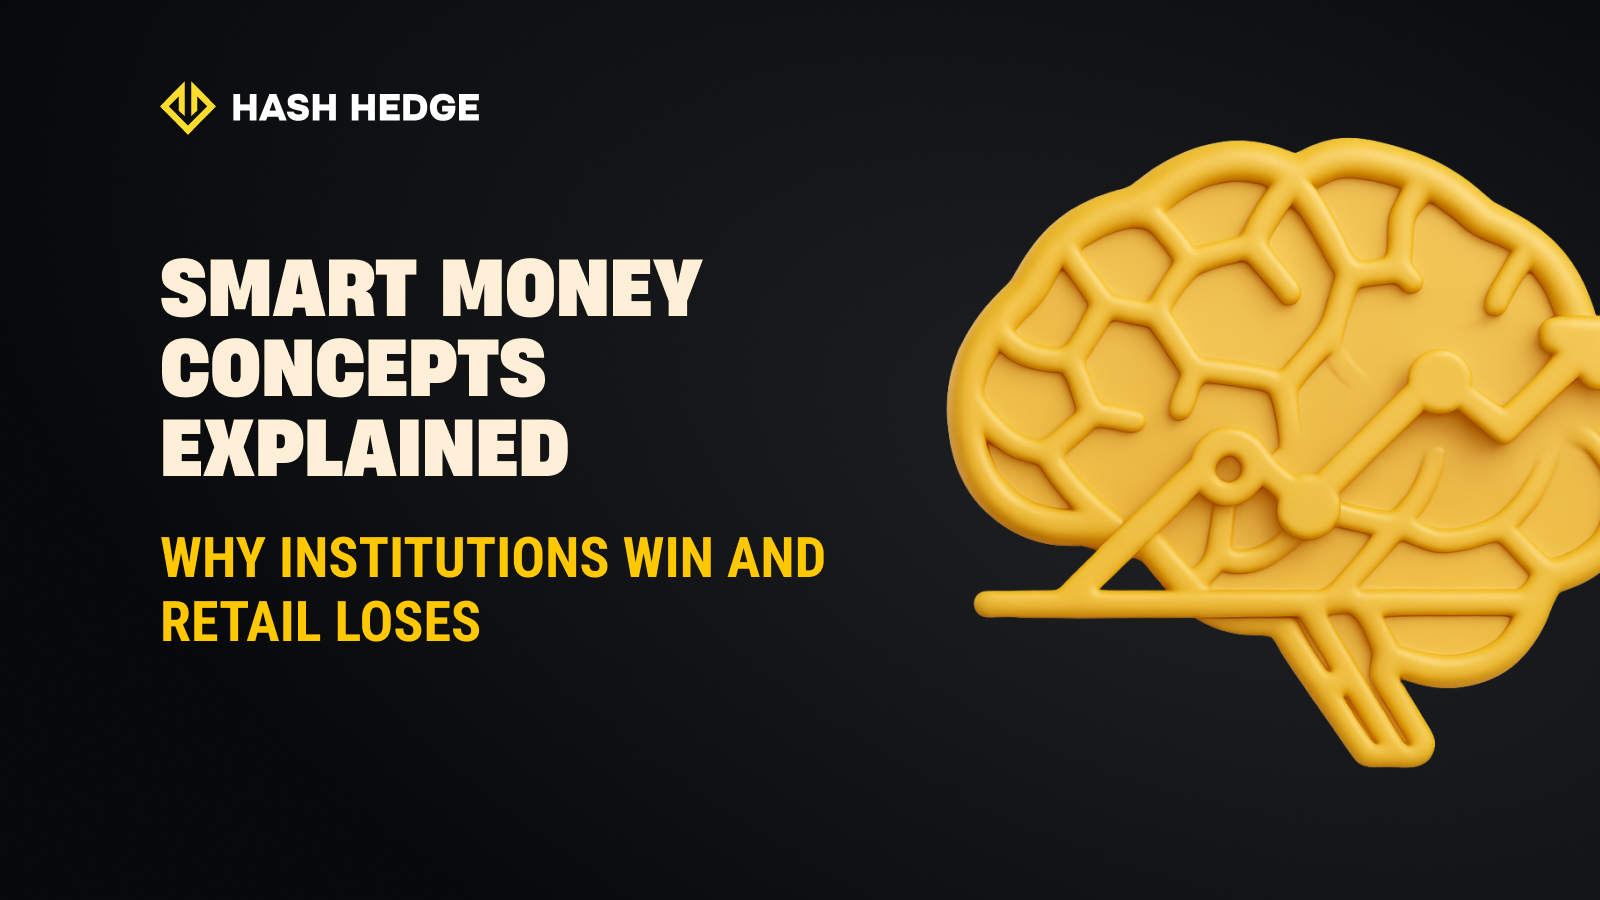
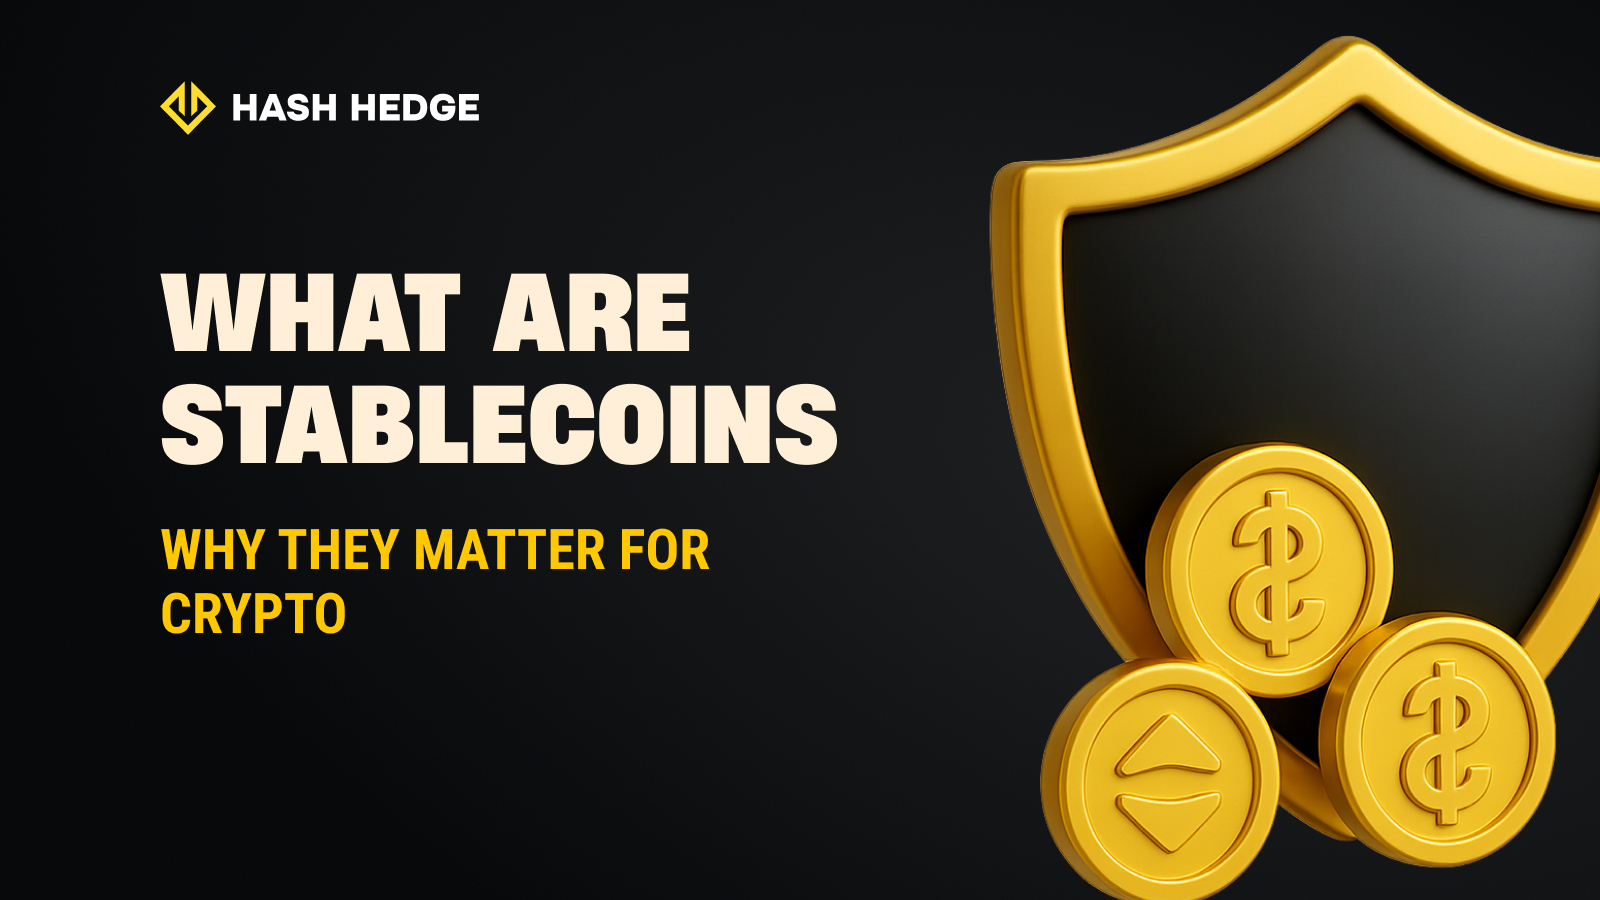
Add 3 more EN blog articles (AI trading, trading bots, smart money concepts)
Also fix stablecoins-guide hero image, which had picked up the wrong
graphic (Smart Money Concepts branding) due to a bug on the source page;
replaced with the correct stablecoins hero shown on the site's own listing page.

diff --git a/src/content/blog/ai-algorithmic-trading/en.md b/src/content/blog/ai-algorithmic-trading/en.md
@@ -1,0 +1,110 @@
+---
+lang: en
+articleId: ai-algorithmic-trading
+title: "AI and Algorithmic Trading: How Automation Is Reshaping Financial Markets"
+hook: "AI ALGORITHMIC TRADING"
+description: "Discover how AI and automation are redefining trading. Learn why over 70% of trades are made by algorithms, how predictive trading works, and why human insight still matters in the age of machines."
+category: trading-strategies
+publishDate: 2025-11-13
+readingMinutes: 5
+heroImage: "./en/hero.png"
+heroImageAlt: "AI and algorithmic trading reshaping financial markets"
+intro:
+  - "Every second, thousands of trades flash across global markets. In crypto, those seconds matter even more — because the market never closes."
+  - "Now imagine a world where decisions happen faster than a blink, without hesitation or fear. Just raw execution."
+  - "Here's a stat that might surprise you: over 70% of U.S. stock market volume already comes from algorithmic trading. In crypto, estimates hover around 60–65%, depending on the exchange."
+  - "So here's the question: if machines are trading smarter and faster than ever, what's left for human traders?"
+  - "That's the main theme we explore in this article. So the answer isn't as simple as \"AI wins.\""
+finalPromo:
+  title: "Ready to Trade with Prop Firm Capital?"
+  description: "Hash Hedge is the #1 crypto prop trading platform. Get funding up to **$150K** and withdraw up to **90% of your profits** in USDT straight to your wallet."
+  buttonText: "Start Challenge"
+  buttonUrl: "https://app.hashhedge.com/en/register/"
+---
+
+## A Short History of Algo-Trading
+
+Once upon a time, traders survived on intuition and caffeine. They watched charts, read order books, and relied on gut feeling to catch momentum before it faded. But as markets grew faster, human reaction time simply couldn't keep up. Automation started small: scripts that rebalanced portfolios, bots that executed stop-losses, arbitrage code between exchanges. But over time, those scripts evolved into something bigger — strategies that learned, adapted, and optimized themselves.
+
+Let's be clear, though: not all automation is "AI." An algorithm is just a rulebook.
+
+### Algorithm Market Snapshot
+
+| Metric | 2023 | 2024 |
+| --- | --- | --- |
+| Share of algorithmic trading (stocks) | 68% | 72% |
+| Share in crypto markets | ~55% | ~63% |
+| Average bot execution speed | < 1 ms | < 0.5 ms |
+| Share of retail traders using automation | 22% | 31% |
+
+## How Algorithms Actually Trade
+
+At its core, algorithmic trading is just math turned into motion. You define the logic — "Buy ETH if price crosses above the 50-day MA" — and the bot executes, perfectly.
+
+Common types include:
+
+- Market-making bots, providing liquidity, and earning the spread.
+- Arbitrage bots, spotting small price gaps between exchanges.
+- Trend followers, jumping in once momentum confirms direction.
+
+And yet, there's still a missing piece — adaptability. That's where AI quietly entered the room.
+
+## When Bots Start Learning
+
+The first AI bots didn't try to "think" — they simply learned from data. They tracked historical trades, tested thousands of parameter combinations, and recognized recurring setups long before any human could.
+
+Today's models go even further. They read sentiment. They scrape Twitter, Reddit, and other socials, processing thousands of signals per second to sense market mood shifts.
+
+That's why AI-driven systems can outperform manual traders — because they see and act faster.
+
+## Why Traders Still Lose If They Have Algorithms and AI-Bots
+
+Let's pause here. If trading automation is this powerful, why aren't all traders profitable? Because it's about understanding the logic behind it.
+
+Many newcomers fall for the illusion of "set and forget." They buy pre-made bots, let them run, and then wonder why their portfolios bleed after a few volatile nights. The problem is the human overconfidence behind it.
+
+Some of the most common pitfalls include:
+
+- **Overfitting.** Models that perform perfectly on past data but fail in real markets.
+- **Ignoring new conditions.** A strategy that worked in a bull run dies in a sideways market.
+- **Data bias.** Garbage in, garbage out.
+
+## The Human Element Isn't Dead Yet
+
+One thing about AI: it's emotionless, so that's both its strength and its weakness. Sure, automation doesn't panic during a flash crash or chase green candles out of FOMO. But it also doesn't feel when the market's tone changes, when something just feels off.
+
+Humans still matter because they set the framework, define the logic, and adapt the strategy when reality shifts. That's what trading with AI really looks like: a partnership.
+
+## The Hybrid Trading
+
+A new generation of traders is learning to think in both charts and code. They build simple Python models, connect APIs, or use no-code tools. They backtest, monitor performance dashboards, and tweak strategies using bots and AI.
+
+This hybrid approach is changing what "being a trader" even means. You don't have to be a data scientist to use automation effectively. But you do have to think like one: curious, skeptical, and adaptable.
+
+## Risks and the Hidden Game Behind Automation
+
+When too many traders use similar algorithms, liquidity spirals can form — small moves snowball into flash crashes. In 2010, a 36-minute drop erased nearly $1 trillion in U.S. market value, partly triggered by algorithmic feedback loops. Crypto has its own versions — "bot wars" on exchanges where trading engines battle each other in milliseconds.
+
+Then there's fairness. Institutional players have access to faster data, better execution, and co-located servers right next to the exchange's engine. Retail traders often run their bots from a laptop or cloud server halfway around the world. Milliseconds can be the difference between profit and loss. That's why the next wave of tools will focus on equalizing speed and access — giving smaller traders institutional-grade automation without the infrastructure barrier.
+
+If choosing the right bot feels like a gamble, there's another way to level up your trading without risking your own capital. Hash Hedge gives traders access to professional funding and tools. Trade over 160 crypto pairs, use a professional terminal, and get up to $100,000 in capital for your strategies.
+
+<div class="banner">
+<div class="banner-content">
+<div class="banner-logo"><svg width="602" height="567" viewBox="0 0 602 567" fill="none" xmlns="http://www.w3.org/2000/svg"><path d="M507.435 265.841L300.586 469.72L301.222 566.465L601.846 265.841L336.005 0V370.19L400.602 310.562V161.492L507.435 265.841Z" fill="#FCD535"></path><path d="M94.4666 265.841L300.473 469.72L301.109 566.465L0.0557861 265.841L265.897 0V370.19L201.3 310.562V161.492L94.4666 265.841Z" fill="#FCD535"></path></svg></div>
+<div class="banner-title">Start trading with Hash Hedge today</div>
+</div>
+<a class="banner-button" href="https://app.hashhedge.com/en/register/">Start Challenge</a>
+</div>
+
+## What Comes Next: Predictive Trading and Custom AI Models
+
+Next-gen systems combine on-chain analytics, macro data, and behavioral sentiment into a single decision layer. Imagine an algorithm that recognizes early liquidity shifts before volume spikes — or one that adapts position size based on volatility forecasts. That's the place for predictive AI.
+
+But we need human traders. This change is making them sharper, faster, and more disciplined. Because only that way could they create the right algorithm and bots.
+
+## Final Thoughts
+
+The rise of AI and algorithms doesn't spell the end of human trading. It's the beginning of a new kind of competition — one that rewards discipline and punishes emotion. The traders who win won't necessarily be the fastest, but the ones who understand when to let automation work and when to take control.
+
+Now, the difference is that machines can help us make key decisions faster.

diff --git a/src/content/blog/crypto-trading-bots/en.md b/src/content/blog/crypto-trading-bots/en.md
@@ -1,0 +1,106 @@
+---
+lang: en
+articleId: crypto-trading-bots
+title: "Are Crypto Trading Bots Worth It? Pros, Cons, and Expert Insights"
+hook: "CRYPTO TRADING BOTS"
+description: "Learn how crypto trading bots can trade 24/7, remove emotions, and run multiple strategies at once. Understand the risks and find out how to pick the right bot for your trading style"
+category: trading-strategies
+publishDate: 2025-11-12
+readingMinutes: 8
+heroImage: "./en/hero.png"
+heroImageAlt: "Are crypto trading bots worth it?"
+intro:
+  - "Crypto trading bots are every market these days. They're powerful tools, especially for experienced traders who know how to set them up, but they don't guarantee you'll profit anyway. Bots can monitor the market and execute strategies 24/7, without breaking a sweat or succumbing to FOMO."
+  - "But what exactly are these bots, and should you even bother using one as a trader? Let's take a closer look."
+faq:
+  - question: "Is automated crypto trading legal?"
+    answer: "Yes, in most regions. Follow local regulations and tax laws."
+  - question: "Can a trading bot beat the market?"
+    answer: "Some hedge fund-level bots might, but most retail bots execute your strategy and don't magically outperform."
+  - question: "How much money do I need?"
+    answer: "Starting with a few hundred dollars is possible, but $1,000–$2,000 allows meaningful diversification and risk absorption."
+  - question: "Do professional traders use bots?"
+    answer: "Absolutely. Hedge funds use highly sophisticated bots for the majority of their trades."
+finalPromo:
+  title: "Ready to Trade with Prop Firm Capital?"
+  description: "Hash Hedge is the #1 crypto prop trading platform. Get funding up to **$150K** and withdraw up to **90% of your profits** in USDT straight to your wallet."
+  buttonText: "Start Challenge"
+  buttonUrl: "https://app.hashhedge.com/en/register/"
+---
+
+## The Basics: What Exactly Is a Crypto Trading Bot?
+
+At its core, a crypto trading bot is simply software that executes trades on your behalf: just no emotions, no coffee breaks, no FOMO. Think of it as a strategy autopilot for your portfolio. Most platforms give you pre-built bots while letting you tweak strategies, indicators, and risk parameters.
+
+So even if a bot looks like a "perfect 100% profit machine" on paper, in reality, it can just as easily become a 99% loss engine if market conditions shift or your strategy isn't properly tuned. In fact, data from retail traders shows that roughly 70% of automated strategies underperform a simple buy-and-hold over 12 months.
+
+That's why you can't just pick a bot and hope for the best. Understanding volatility, drawdowns, and risk-adjusted returns remains crucial.
+
+Remember: they only do what you tell them to do.
+
+## How Do Bots Work?
+
+Bots usually follow rules set by indicators, trading signals, or arbitrage strategies. Some bots try to profit from small price differences across exchanges (arbitrage), while others automate market-making or trend-following.
+
+Common strategies include:
+
+- **Trend Following.** Buy when the market moves up, sell when it moves down.
+- **Arbitrage.** Exploit price differences across exchanges.
+- **Market Making.** Provide liquidity while capturing small spreads.
+- **Dollar-Cost Averaging (DCA).** Spread purchases over time to reduce risk.
+
+## Why Traders Use Bots
+
+- **24/7 Trading.** Crypto never sleeps. Prices swing while you're eating breakfast, sleeping, or commuting. A bot ensures your strategy never takes a nap.
+- **Emotionless Execution.** FOMO is brutal in trading. So, using bots, you forget about second-guessing and panic selling.
+- **Speed and Efficiency.** High volatility markets move in milliseconds. Bots process data and execute trades far faster than any human can blink.
+
+## The Risks of Trading Bots
+
+- **Market Risk Is Amplified.** A flawed strategy in a sudden crash can wipe out capital quickly. Bots execute your plan relentlessly.
+- **Technical Complexity.** Backtesting, optimization, and fine-tuning take time and know-how. A small mistake in configuration can lead to big losses.
+- **Security Concerns.** Bots need API access to your exchange account. If keys are mismanaged or hacked, your funds are exposed.
+- **Hidden Costs.** Subscription fees, trading fees, and slippage add up. Even if a bot performs well, costs can eat into profitability.
+
+## Quick Summary of Crypto Trading Bots: Pros & Cons
+
+| Pros | Cons |
+| --- | --- |
+| ✅ Bots operate 24/7, so you won't miss market swings. | ⭕ A poorly designed strategy can trigger fast, significant losses. |
+| ✅ No panic, no FOMO. | ⭕ Require time and technical know-how. |
+| ✅ Executes trades faster than any human. | ⭕ API keys and exchange access can be a vulnerability. |
+| ✅ Run multiple strategies at once. | ⭕ Subscriptions, trading fees, slippage. |
+
+Ready to learn more? Trade smarter with Hash Hedge.
+
+<div class="banner">
+<div class="banner-content">
+<div class="banner-logo"><svg width="602" height="567" viewBox="0 0 602 567" fill="none" xmlns="http://www.w3.org/2000/svg"><path d="M507.435 265.841L300.586 469.72L301.222 566.465L601.846 265.841L336.005 0V370.19L400.602 310.562V161.492L507.435 265.841Z" fill="#FCD535"></path><path d="M94.4666 265.841L300.473 469.72L301.109 566.465L0.0557861 265.841L265.897 0V370.19L201.3 310.562V161.492L94.4666 265.841Z" fill="#FCD535"></path></svg></div>
+<div class="banner-title">Start trading with Hash Hedge today</div>
+</div>
+<a class="banner-button" href="https://app.hashhedge.com/en/register/">Start Challenge</a>
+</div>
+
+## Are Crypto Trading Bots Worth It?
+
+Here's the honest answer: it depends.
+
+- **Active, Technical Traders.** Yes, if you have a systematic strategy, enjoy backtesting, and can monitor performance. A bot scales your edge.
+- **Busy Professionals.** Maybe. Learning, configuring, and monitoring a bot takes time. Is that time better spent elsewhere? Only you can decide.
+- **Passive Investors.** Probably not. If your goal is long-term growth, HODLing or staking might provide better risk-adjusted returns without the complexity.
+
+## How to Pick the Right Bot for You
+
+Not all bots are created equal. Choosing the right one is matching the bot to your trading style, risk tolerance, and technical comfort level. Here's what every trader should consider:
+
+- **Security First.** A bot is only as safe as the platform it runs on. Look for services with 2FA, encrypted API keys, and no withdrawal permissions by default. Check reviews, audit reports, and community feedback.
+- **Supported Exchanges.** Some bots only work with specific exchanges. Make sure the one you choose supports the platforms you actually trade on. Bonus points if it can connect to multiple exchanges simultaneously.
+- **Strategy Flexibility.** Different traders have different goals. Can the bot run grid trading, dollar-cost averaging, trend-following, or arbitrage strategies?
+
+If choosing the right bot feels like a gamble, there's another way to level up your trading without risking your own capital. Hash Hedge gives traders access to professional funding and tools. Trade over 160 crypto pairs, use a professional terminal, and get up to $100,000 in capital for your strategies.
+
+## Final Thoughts
+
+Trading bots are powerful tools, so knowing how to use them could be profitable. Beyond just speed and discipline, bots can improve efficiency by running multiple strategies simultaneously.
+
+They can monitor dozens of trading pairs at once, automatically adjusting to market movements without the fatigue or hesitation a human trader might experience. Used correctly, bots allow you to focus on higher-level decisions, like refining your strategy or managing risk, while the software handles the repetitive execution.

diff --git a/src/content/blog/smart-money-concepts/en.md b/src/content/blog/smart-money-concepts/en.md
@@ -1,0 +1,113 @@
+---
+lang: en
+articleId: smart-money-concepts
+title: "Smart Money Concepts Explained: Why Institutions Win and Retail Loses"
+hook: "SMART MONEY CONCEPTS"
+description: "Discover how institutional traders read market structure, engineer liquidity, and shape price movements. Learn why 75% of retail traders lose — and how to think like Smart Money to trade with capital better"
+category: technical-analysis
+publishDate: 2025-11-11
+readingMinutes: 10
+heroImage: "./en/hero.jpg"
+heroImageAlt: "Smart Money Concepts explained: why institutions win and retail loses"
+intro:
+  - "Retail traders love their tools. Moving averages, RSI, MACD, Bollinger Bands — the list goes on. But indicators alone don't move the market — people do. And most traders forget that behind every candle and every spike, there's intent, liquidity, and bigger players shaping the flow."
+  - "According to several brokerage reports, over 75% of retail traders lose money in their first year, and only around 5% ever achieve consistent profitability. The rest spend years chasing perfect setups, tweaking systems, and wondering why the market always seems one step ahead."
+  - "Meanwhile, institutions (hedge funds, banks, and trading firms) quietly command over 70% of daily trading volume across global markets."
+  - "The question is: what do they see that most traders don't?"
+finalPromo:
+  title: "Ready to Trade with Prop Firm Capital?"
+  description: "Hash Hedge is the #1 crypto prop trading platform. Get funding up to **$150K** and withdraw up to **90% of your profits** in USDT straight to your wallet."
+  buttonText: "Start Challenge"
+  buttonUrl: "https://app.hashhedge.com/en/register/"
+---
+
+## We Talk About Liquidity
+
+Smart Money isn't guessing where the price will go. They're searching for liquidity — for clusters of orders sitting above highs or below lows. Every market move needs liquidity to fill large positions, and retail traders unknowingly provide it.
+
+When you buy a breakout, someone needs to sell into your buy. When you panic sell at a low, someone needs to buy your exit. That "someone" is often the institutional side of the market.
+
+The concept may sound cynical, but it's simply how markets operate. Institutions can't move millions in and out of positions quietly — they need retail traders to provide the volume. So they target liquidity pools, sweep stop-losses, trigger emotions, and then move the market the way they intended all along.
+
+*The truth behind the market.*
+
+## What Is Liquidity Engineering?
+
+Liquidity engineering is the silent architecture of every market move. It's the invisible mechanism behind sudden wicks, fake breakouts, and those "unfair" reversals that liquidate thousands in seconds. In such a way, institutions create movement by forcing others to react. Each spike and drop is a calculated extraction of liquidity.
+
+Retail traders often think they're fighting the market. In truth, they're providing the liquidity that fuels it. Every stop-loss is a transaction waiting to be harvested, every emotional entry a gift to those who wait. So, Smart Money understands this. They know the game is about positioning around liquidity.
+
+If you're ready to stop being the liquidity, Hash Hedge gives you the capital and tools to think like Smart Money. Trade over 160 crypto pairs, use a professional terminal, and get up to $100,000 in funding for your strategy.
+
+<div class="banner">
+<div class="banner-content">
+<div class="banner-logo"><svg width="602" height="567" viewBox="0 0 602 567" fill="none" xmlns="http://www.w3.org/2000/svg"><path d="M507.435 265.841L300.586 469.72L301.222 566.465L601.846 265.841L336.005 0V370.19L400.602 310.562V161.492L507.435 265.841Z" fill="#FCD535"></path><path d="M94.4666 265.841L300.473 469.72L301.109 566.465L0.0557861 265.841L265.897 0V370.19L201.3 310.562V161.492L94.4666 265.841Z" fill="#FCD535"></path></svg></div>
+<div class="banner-title">Start trading with Hash Hedge today</div>
+</div>
+<a class="banner-button" href="https://app.hashhedge.com/en/register/">Start Challenge</a>
+</div>
+
+## How Institutional Traders Use Charts
+
+One of the core elements of Smart Money Concepts is order blocks — areas on the chart where large institutional positions are likely to be opened. They're typically seen as the last bullish or bearish candle before a sharp impulsive move.
+
+When you see a strong move with clear direction and volume, it didn't start by accident — it likely began at an order block. The difference lies in context — understanding where the liquidity was taken and whether the market structure shifted afterward.
+
+Think of it this way: order blocks are footprints of intent.
+
+## How Institutions Think
+
+Institutions are obsessed with getting paid. They wait for the market to come to them — to reach zones of interest where they can act efficiently.
+
+They don't chase candles or FOMO into breakouts. They let the market induce retail traders into bad entries, creating the liquidity they need. Then they enter, often against the crowd, and hold through the noise. This mindset is what separates professionals from emotional traders.
+
+## What Institutional Traders Actually Look At
+
+Most institutions care about:
+
+- Liquidity zones.
+- Market structure shifts (breaks of major highs/lows confirming intent).
+- Premium and discount zones for using price ranges to find value.
+- Time and volume to understand when and how liquidity appears.
+
+That's it. No secret algorithm, no prediction model. Just structure, patience, and the ability to think in probabilities.
+
+## How to Think Like Smart Money?
+
+Most traders focus on entries. Smart Money focuses on context. Start by observing where liquidity is before thinking about direction.
+
+Ask yourself:
+
+- Who's trapped?
+- Whose stops are about to get hit?
+- Where would large players need to enter or exit?
+
+Before taking any position, professionals study where liquidity lies — because that's where price will move next. Markets always move toward liquidity to fill large orders efficiently.
+
+Retail traders often mistake these moves for manipulation, but what's really happening is liquidity engineering. The market hunts the easiest liquidity first — stop-loss clusters, breakout chasers, and emotional entries. Once that liquidity is consumed, the price reveals its true direction.
+
+## Common Myths About Smart Money Concepts
+
+Let's clear a few things up:
+
+- Smart Money isn't always right. They lose too, just less often and with better risk management.
+- SMC is a framework for understanding intent.
+- It's not manipulation.
+- It's not new. These concepts existed long before socials turned them into buzzwords.
+
+## Turning Knowledge Into Edge
+
+So how can you apply this without overcomplicating your charts?
+
+- Mark liquidity highs and lows.
+- Note where the market sweeps liquidity, then reverses.
+- Track order blocks with a change in structure.
+- Journal these moves; spot patterns in timing and volume.
+
+Over time, the market stops looking random and starts feeling like a story being told in price.
+
+## Final Thoughts
+
+A solid trading plan translates Smart Money Concepts into action. It gives structure to how you analyze price, control exposure, and adapt to shifting conditions. Keep it straightforward — focus on structure, liquidity zones, and confirmation before every move.
+
+The strength of Smart Money trading lies in discipline. When your routine is consistent and your rules are clear, trading stops being about guessing direction and starts being about reading intent. Think about it more.
